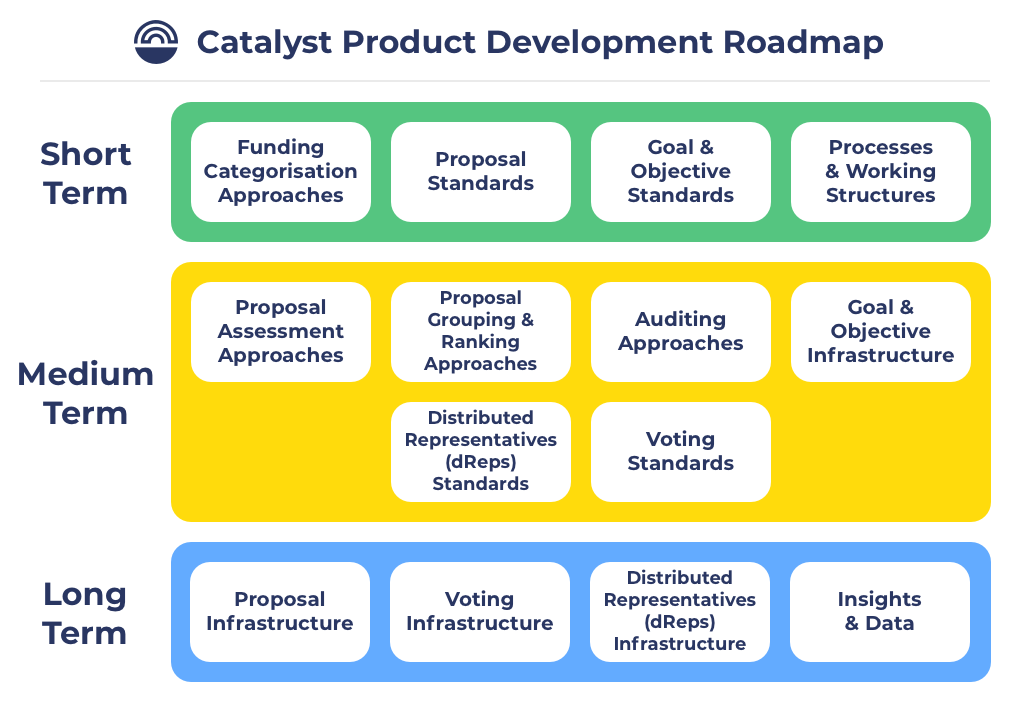
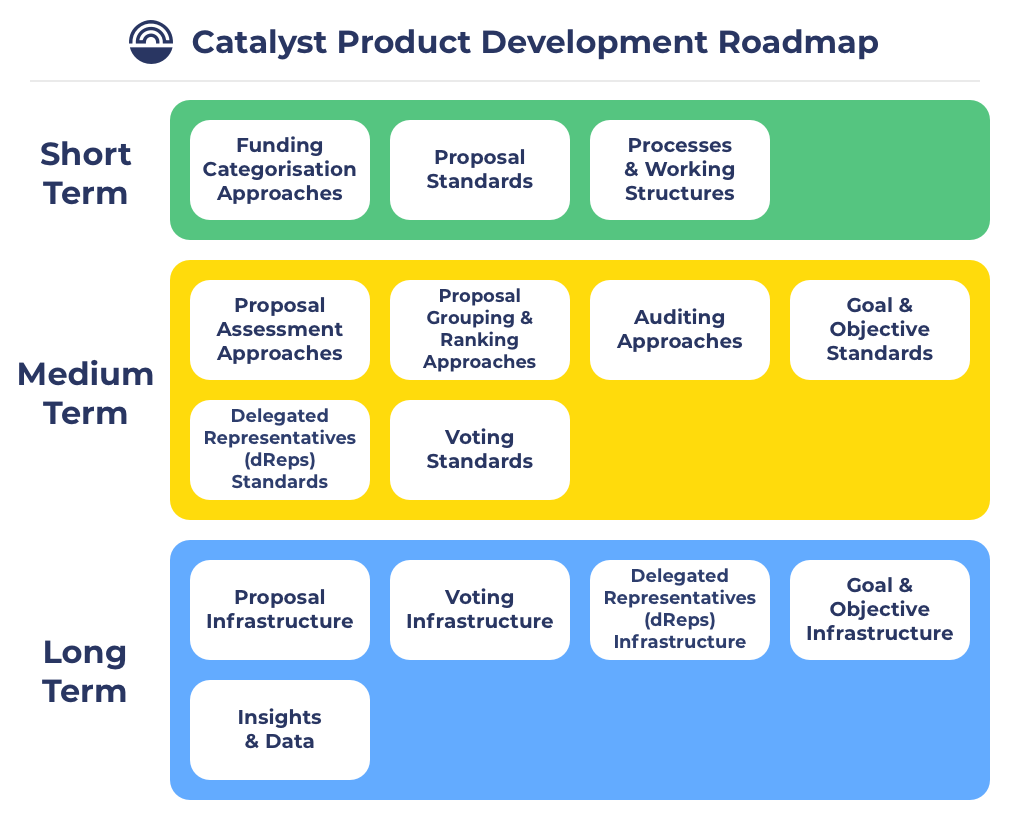
GitBook: [#25] No subject

diff --git a/README.md b/README.md
@@ -4,7 +4,7 @@ description: Ideas for a Catalyst product development roadmap
 
 # Product Development Roadmap
 
-_Roadmap version 0.1_
+_Roadmap version 0.2_
 
 ### **Disclaimers**
 
@@ -62,11 +62,7 @@ As an example, it is logical to have a higher intensity of focus and effort on u
 
 Effort will be needed for all of these areas in the short term. The key question we’re trying to answer is which areas will be the most effective to spend more time on in the short term over other potential areas? Which areas are more dependent on the quality and outcome of work in other areas of the funding process?
 
-
-
-<figure><img src=".gitbook/assets/catalyst-product-development-roadmap.png" alt=""><figcaption><p>Catalyst Product Development Roadmap - Version 0.1</p></figcaption></figure>
-
-
+<figure><img src=".gitbook/assets/catalyst-product-development-roadmap.png" alt=""><figcaption><p>Catalyst Product Development Roadmap - Version 0.2</p></figcaption></figure>
 
 ### Short term
 
@@ -204,18 +200,8 @@ Throughout the funding process there is value in integrating insights and data f
 
 ### Feedback & suggestions
 
-Share any feedback and criticisms in the comments on how to improve these groupings or for adding any other areas. This is a draft roadmap to start suggesting ideas and sharing our thoughts.
+Share any feedback and criticisms in the [funding categories telegram chat](https://t.me/catalystfundingcategories) on how to improve these groupings or for adding any other areas. This is a draft roadmap to start suggesting ideas and sharing our thoughts.
 
 
 
 As this is a starting draft version we expect we’re likely missing work done by the community that has focussed on some of these areas that we haven’t seen. If there is any other existing community work around any of these areas then please add any details in the comments.
-
-
-
-### **Support our work!**
-
-We have been working on analysis for funding categorisation and a contributor based funding model since the end of 2021. You can support our completed efforts so far in these areas for Catalyst by voting on our fund 9 proposal - [**Funding Categories Analysis**](https://cardano.ideascale.com/c/idea/419483). You can find the Funding Categories Analysis proposal in the DAOs <3 Cardano challenge in the voting app.
-
-
-
-We’re going to continue focussing on the funding categorisation and contributor areas over the coming months. With any spare time we will also support any efforts towards the other short term areas in this roadmap - we believe these areas of focus will create the most impact for improving Catalyst.

diff --git a/product-and-structure-analysis/product-development-workflow.md b/product-and-structure-analysis/product-development-workflow.md
@@ -8,6 +8,8 @@ description: >-
 
 ### **Product development workflow**
 
+The following is an example product development workflow. This could be adjusted and refined to suit the needs of a given team. There is no perfect model, teams will be flexible in responding to each situation as they see fit.
+
 1. **Problem sensing** - Gather problems about the ecosystem that community members are experiencing. Problem sensing should always be happening.
 2. **Problem categorisation** - The problems should be categorised such as is it a technical problem? A process issue? Lack of certain functionality? Similar problems should be combined if they are a duplicate of an existing problem.
 3. **Problem details and context** - What added details are needed to understand the problem, are their reasons it exists and hasn't been solved? Is there other contexts to consider such as another solution already being implemented that will impact this problem?&#x20;
@@ -23,8 +25,15 @@ description: >-
 
 
 
-**Notes**
+### **Notes**
 
 * **Collaboration** - Collaboration between multiple people is needed for every step of a product development process. Strong collaboration requires open, transparent and frequent communication from those involved in the process.&#x20;
 * **Consensus** - Voting on problem prioritisation and solutions require a democratic voting process with participants who have enough knowledge of the ecosystem.&#x20;
 * **Open process** - The information and decisions made from each part of the process should be open to the community. Feedback should be possible at any given stage.
+* **Experimentation** - Contributors working on different areas of any ecosystem will experiment on how they collaborate with each other to get impactful work done. It can be expected that approaches to improving products and processes to be updated regularly.
+
+
+
+### Resources
+
+* There are a number of ways to execute a product development workflow. Here are some examples thoughts and examples from [Google](https://www.youtube.com/watch?v=yyucwHDgAco), [Shopify](https://www.shopify.co.uk/blog/product-development-process), [GitLab](https://about.gitlab.com/handbook/product-development-flow/), [Product Plan](https://www.productplan.com/glossary/product-development-process/) and [Asana](https://asana.com/resources/product-development-process).
